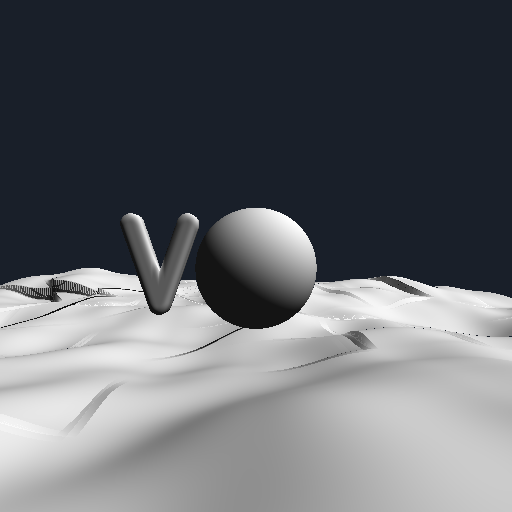
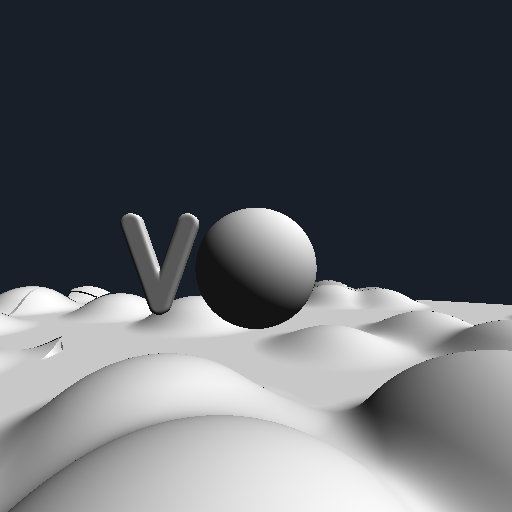
Fathom: replace heightmap terrain with SDF-native blob field
You were right that the heightmap was the problem, not just a tuning knob.
A heightfield y=h(x,z) is a function graph (a polygon-terrain concept)
that isn't a real distance field — the whole source of the overshoot,
Lipschitz factor, gradient correction, and the 21.6 MB shader (the
gradient correction re-sampled noise 5x, inlined at every SDF tap).

Terrain is now the SDF-native way: a base plane smooth-unioned with a
field of EXACT sphere primitives on a jittered grid (only the 3x3
neighbourhood evaluated). Every term is a true distance field and smin
under-estimates near blends (overshoot-safe), so: no Lipschitz factor,
no gradient correction, no noise, no seams — perfectly smooth surfaces.

Crucially it's a called core Function, not inlined:
- accumulating into a LocalVar avoids the exponential expression-tree
  duplication that a chained pure-expression smin caused (it OOM'd the
  SPIR-V lowerer);
- emitting the terrain once instead of inlining it at ~9 SDF taps.
Result: SPIR-V 21.6 MB -> 199 KB (100x+ smaller).

Same field lowers to GPU (OpFunctionCall) and CPU (Truffle DirectCall) ->
render == sim preserved (verified: centre-ray march hits, residual 0).

diff --git a/vexelray-demo/src/main/java/dev/vexelray/demo/Fathom.java b/vexelray-demo/src/main/java/dev/vexelray/demo/Fathom.java
@@ -12,7 +12,6 @@ import dev.supirvast.vastir.core.Region;
 import dev.supirvast.vastir.core.ShaderStage;
 import dev.supirvast.vastir.core.Statement;
 import dev.supirvast.vastir.tools.Fullscreen;
-import dev.supirvast.vastir.tools.Noise;
 import dev.supirvast.vastir.type.Type;
 import dev.supirvast.vast.CoreToTruffle;
 import com.oracle.truffle.api.CallTarget;
@@ -65,6 +64,9 @@ public final class Fathom {
     private static final Type.Vector V3 = new Type.Vector(F32, 3);
     private static final Type.Vector V4 = new Type.Vector(F32, 4);
     private static final Type.Vector V2 = new Type.Vector(F32, 2);
+
+    /** The terrain SDF as a callable core Function — emitted once, called (not inlined) at every SDF tap. */
+    private static final Function TERRAIN_FN = buildTerrainFunction();
 
     public static void main(String[] args) throws IOException, BackendException {
         byte[] vertexSpirv = Fullscreen.triangleVertexWithUvSpirv();
@@ -132,7 +134,7 @@ public final class Fathom {
                     }
                 });
 
-                CallTarget cpu = new CoreToTruffle().lower(sdfFunction());
+                CallTarget cpu = lowerSdf();
                 float[] cam = {0.0f, 1.2f, -3.0f};
                 float[] look = {0.0f, 0.0f};                    // yaw, pitch (radians)
                 boolean[] paused = {false};                     // Escape pauses look until the window is refocused
@@ -259,7 +261,7 @@ public final class Fathom {
         // shading normal reflects the broad surface curvature, not every sub-cell noise wiggle — that is what makes
         // the terrain read as a smooth curved surface instead of a faceted heightmap. (Sphere/glyph are large
         // relative to this eps, so their normals stay crisp.)
-        double eps = 0.08;
+        double eps = 0.03;
         Expr n = Expr.MathCall.normalize(new Expr.VectorConstruct(V3, List.of(
                 sub(sceneSdf(add(read(p), v3(eps, 0, 0))), sceneSdf(sub(read(p), v3(eps, 0, 0)))),
                 sub(sceneSdf(add(read(p), v3(0, eps, 0))), sceneSdf(sub(read(p), v3(0, eps, 0)))),
@@ -284,11 +286,12 @@ public final class Fathom {
                 new Statement.Assign(d, sceneSdf(read(p))),
                 // distance-relative hit epsilon: threshold grows with march distance t so grazing rays that run out
                 // of step budget short of the surface still register as a hit instead of leaking sky-coloured streaks.
-                new Statement.If(new Expr.Binary(BinaryOp.LESS_THAN, read(d), add(f(0.008), mul(f(0.0018), read(t)))), hit, miss),
+                new Statement.If(new Expr.Binary(BinaryOp.LESS_THAN, read(d), add(f(0.008), mul(f(0.0008), read(t)))), hit, miss),
                 new Statement.ReturnVoid());
 
         Function main = new Function("main", new Type.FunctionType(Type.VOID, List.of()), body);
-        CoreModule module = new CoreModule().addEntryPoint(EntryPoint.of(main, ShaderStage.FRAGMENT));
+        CoreModule module = new CoreModule().addFunction(TERRAIN_FN)
+                .addEntryPoint(EntryPoint.of(main, ShaderStage.FRAGMENT));
         return ComposedShader.lower(ShaderStage.FRAGMENT, module, "main").spirv();
     }
 
@@ -298,7 +301,7 @@ public final class Fathom {
      * the identical IR — which is how collision, line-of-sight, and physics will query exactly what you see.
      */
     private static void verify() {
-        CallTarget cpu = new CoreToTruffle().lower(sdfFunction());
+        CallTarget cpu = lowerSdf();
         System.out.println("CPU-evaluating the SAME sceneSdf IR the GPU renders (SupirVast Truffle backend):");
         probe(cpu, 0.0f, 1.0f, 3.0f);    // sphere centre  -> ~ -1 (deep inside)
         probe(cpu, 0.0f, 1.5f, 3.0f);    // upper sphere   -> ~ -0.5 (inside)
@@ -356,7 +359,7 @@ public final class Fathom {
      */
     private static void demoFilmstrip(NativePlatform platform, byte[] vert, byte[] frag, String out)
             throws IOException {
-        CallTarget cpu = new CoreToTruffle().lower(sdfFunction());
+        CallTarget cpu = lowerSdf();
         float playerRadius = 0.35f;
         float[] cam = {0.0f, 1.2f, -3.0f};
         java.util.List<float[]> path = new java.util.ArrayList<>();
@@ -411,6 +414,12 @@ public final class Fathom {
                 .putFloat(x).putFloat(y).putFloat(z).putFloat(0.0f).putFloat(0.0f).array();
     }
 
+    /** Lower the scene SDF for the CPU (Truffle), including the called terrain function in the module. */
+    private static CallTarget lowerSdf() {
+        Function sdf = sdfFunction();
+        return new CoreToTruffle().lowerModule(List.of(TERRAIN_FN, sdf), sdf);
+    }
+
     /** The scene SDF as a pure, CPU-lowerable {@code core} function {@code float sdf(vec3 p)} — same body as the shader. */
     private static Function sdfFunction() {
         return new Function("sdf", new Type.FunctionType(F32, List.of(V3)),
@@ -423,7 +432,7 @@ public final class Fathom {
      * the same source — a flat shape given real thickness, that you can walk around. Fresh IR per call.
      */
     private static Expr sceneSdf(Expr point) {
-        Expr ground = terrain(point);
+        Expr ground = new Expr.Call(TERRAIN_FN, List.of(point));
         Expr sphere = sub(Expr.MathCall.length(sub(point, v3(0.0, 1.0, 3.0))), f(1.0));
         Expr q = sub(point, v3(-1.2, 1.1, 1.5));                 // glyph local space (left of the sphere, facing us)
         Expr glyph = extrudeRounded(q, glyphV(q), 0.06, 0.04);   // thin paper with rounded edges
@@ -431,33 +440,56 @@ public final class Fathom {
     }
 
     /**
-     * The floor: a smooth value-noise heightfield ({@link Noise#fbm2}) instead of a flat plane. A flat floor is
-     * the sphere-tracing worst case — rays grazing toward the horizon run nearly parallel to it, take vanishing
-     * steps, and blow the step budget, which is what distorted the flat horizon. Rolling terrain has curvature at
-     * every distance, so no ray runs parallel to the surface; the horizon resolves cleanly (and fades to sky
-     * beyond trace range instead of smearing). It is the SAME field the CPU collides against — render == sim.
-     *
-     * <p>A heightfield {@code y - h(x,z)} over-estimates true distance where the ground is steep. Rather than a
-     * single conservative Lipschitz constant (too loose → overshoot gashes on steep slopes; too tight → tiny
-     * steps that exhaust the budget on grazing rays → gashes there instead), we divide by the local surface
-     * slope: {@code (y - h) / sqrt(1 + |grad h|^2)}. That is the true distance to a locally-planar heightfield —
-     * accurate everywhere, so steps are as large as is safe and never overshoot.
+     * The floor, built the SDF-native way: a base plane smooth-unioned with a field of <em>exact</em> sphere
+     * primitives placed on a jittered grid. This is NOT a heightfield {@code y - h(x,z)} — a heightfield is a
+     * function graph (a polygon-terrain concept) that isn't a real distance field, which is the whole source of
+     * the overshoot/Lipschitz/gradient-correction pain. Here every term is a true SDF and {@code smin} keeps the
+     * combined field well-behaved (it under-estimates distance near a blend, which is <em>safe</em> for sphere
+     * tracing — it can only understep, never overshoot). So: no Lipschitz factor, no gradient correction, no
+     * noise, no seam cracks — and a small shader. Only the 3x3 grid neighbourhood around the point is evaluated.
+     * The same field renders on the GPU and collides on the CPU — render == sim.
      */
-    private static Expr terrain(Expr point) {
+    private static Function buildTerrainFunction() {
+        Expr point = new Expr.Param(0, V3);
         Expr px = x(point);
         Expr pz = z(point);
-        double e = 0.22;                                  // world-space epsilon for the height gradient
-        Expr h = heightAt(px, pz);
-        Expr hx = mul(sub(heightAt(add(px, f(e)), pz), heightAt(sub(px, f(e)), pz)), f(1.0 / (2 * e)));
-        Expr hz = mul(sub(heightAt(px, add(pz, f(e))), heightAt(px, sub(pz, f(e)))), f(1.0 / (2 * e)));
-        Expr slope = Expr.MathCall.sqrt(add(add(f(1.0), mul(hx, hx)), mul(hz, hz)));
-        return div(sub(y(point), h), slope);
+        double cell = 3.5;
+        double k = 0.4;                                   // smooth-union blend radius (thin halo)
+        double radius = 1.5;
+        Expr gx = Expr.MathCall.floor(div(px, f(cell)));
+        Expr gz = Expr.MathCall.floor(div(pz, f(cell)));
+        LocalVar d = new LocalVar("d", F32);
+        java.util.List<Statement> body = new java.util.ArrayList<>();
+        body.add(new Statement.DeclareVar(d, add(y(point), f(0.5))));   // base plane at y=-0.5
+        for (int dz = -1; dz <= 1; dz++) {
+            for (int dx = -1; dx <= 1; dx++) {
+                Expr cx = add(gx, f(dx));
+                Expr cz = add(gz, f(dz));
+                Expr wx = mul(add(cx, hash(cx, cz, 0.0)), f(cell));      // jittered blob centre, world x
+                Expr wz = mul(add(cz, hash(cx, cz, 19.1)), f(cell));     //                        world z
+                Expr wy = sub(mul(hash(cx, cz, 41.7), f(0.7)), f(1.7)); // centre [-1.7,-1.0] -> tops [-0.2,0.5]
+                Expr centre = new Expr.VectorConstruct(V3, List.of(wx, wy, wz));
+                Expr sphere = sub(Expr.MathCall.length(sub(point, centre)), f(radius));
+                // Accumulate into a LOCAL variable — read(d) is a leaf, so no expression-tree duplication
+                // across the 9 blobs (a chained pure-expression smin would blow up exponentially).
+                body.add(new Statement.Assign(d, smin(read(d), sphere, k)));
+            }
+        }
+        body.add(new Statement.Return(read(d)));
+        return new Function("terrain", new Type.FunctionType(F32, List.of(V3)),
+                Region.of(body.toArray(new Statement[0])));
     }
 
-    /** The terrain height at world (x,z): Perlin fBm, freq 0.16, amplitude 2.0. Organic, non-blocky. */
-    private static Expr heightAt(Expr xc, Expr zc) {
-        Expr xz = new Expr.VectorConstruct(V2, List.of(xc, zc));
-        return mul(Noise.fbmPerlin2(mulS2(xz, f(0.16)), 3), f(2.0));
+    /** A 2D value hash in [0,1) for a grid cell, seeded so several independent jitters can be drawn per cell. */
+    private static Expr hash(Expr cx, Expr cz, double seed) {
+        Expr dotv = add(mul(cx, f(127.1 + seed)), mul(cz, f(311.7 + seed * 1.7)));
+        return Expr.MathCall.fract(mul(Expr.MathCall.sin(dotv), f(43758.5453)));
+    }
+
+    /** Polynomial smooth-minimum: blends two SDFs over radius k, under-estimating near the blend (overshoot-safe). */
+    private static Expr smin(Expr a, Expr b, double k) {
+        Expr hh = Expr.MathCall.clamp(add(f(0.5), mul(f(0.5 / k), sub(b, a))), f(0.0), f(1.0));
+        return sub(Expr.MathCall.mix(b, a, hh), mul(f(k), mul(hh, sub(f(1.0), hh))));
     }
 
     /** The 2D "V" field in the local xy-plane: two strokes (capsules) meeting at the bottom, given a half-width. */
